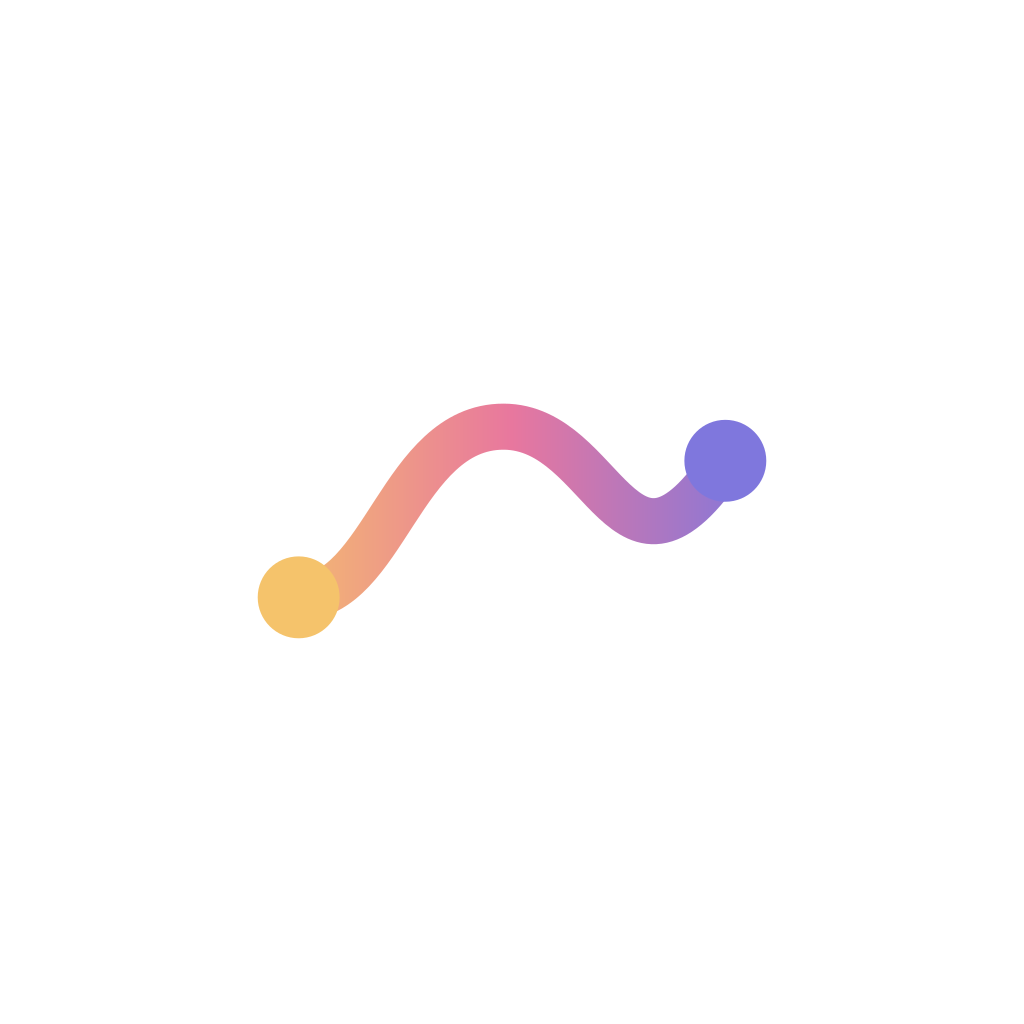
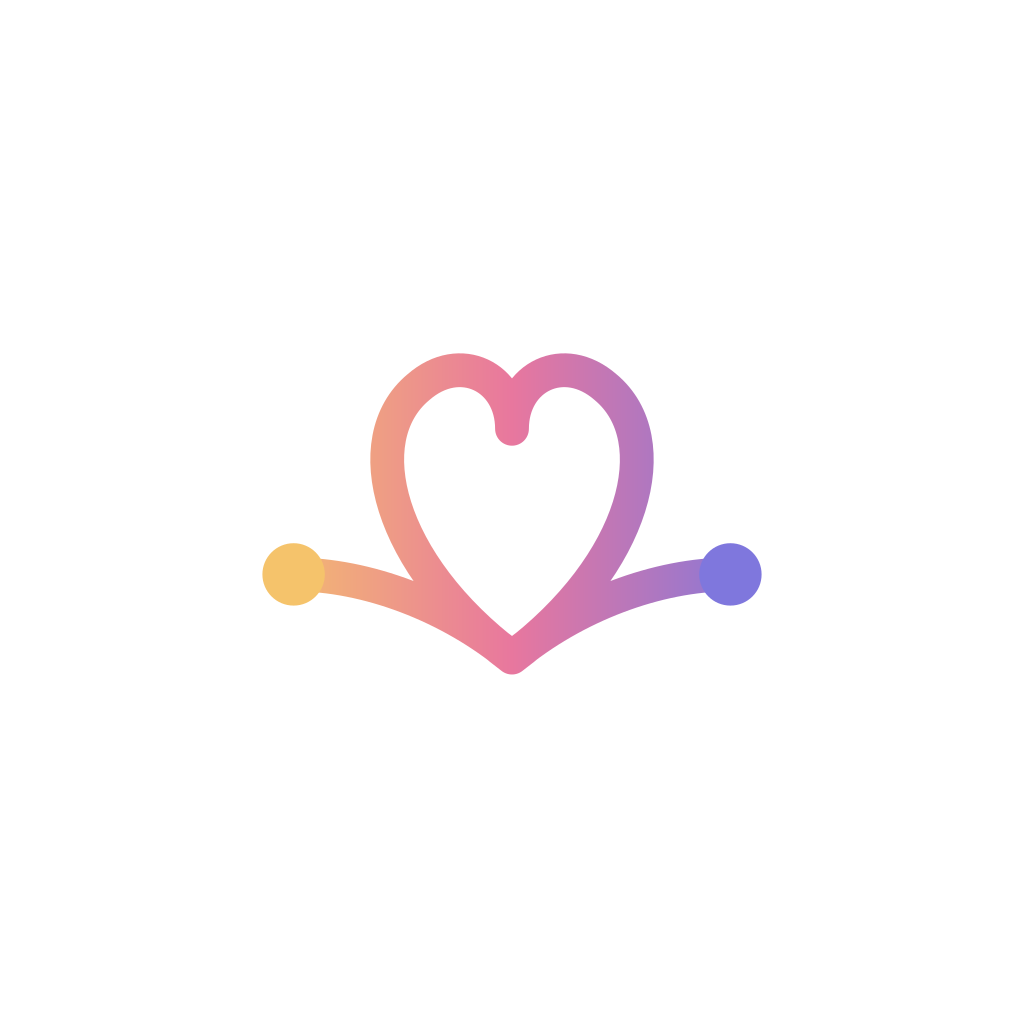
brand mark

Changed region(s): [[0.25, 0.3438, 0.75, 0.6562]]

diff --git a/components/BrandSplash.tsx b/components/BrandSplash.tsx
@@ -11,18 +11,23 @@ import {
   MARK_RATIO,
   MARK_START,
   MARK_STOPS,
+  MARK_STROKE_LENGTH,
   MARK_STROKE_WIDTH,
+  MARK_UNITS_WIDTH,
   MARK_VIEWBOX,
 } from '@/utils/brandMark';
 import { typography } from '@/utils/themeTokens';
 
 const AnimatedCircle = Animated.createAnimatedComponent(Circle);
+const AnimatedPath = Animated.createAnimatedComponent(Path);
 
 /** Must match app.json's splash imageWidth × 0.7 (the mark fills 70% of splash-icon.png). */
 const MARK_WIDTH = 180;
 const MARK_HEIGHT = MARK_WIDTH / MARK_RATIO;
 /** How far the mark glides up to make room for the wordmark. */
 const LIFT = 56;
+/** Length of the light that runs along the thread, in viewBox units. */
+const SPARK_LENGTH = 34;
 
 interface BrandSplashProps {
   /** Fires when the sequence ends, before the fade — the parent routes here. */
@@ -35,32 +40,52 @@ interface BrandSplashProps {
  * Warm Story 2.0 animated splash. The native splash (assets/splash-icon.png,
  * see app.json) already shows the full mark, centered, at exactly this size,
  * so the hand-off is seamless. From there:
- *   1. the gold dot pulses, then the purple one (beginning → recap),
- *   2. the mark glides up while the wordmark and tagline rise in under it,
- *   3. the overlay fades out.
+ *   1. the heart beats twice (lub-dub) while the gold dot pulses,
+ *   2. a soft light runs along the thread, from the gold dot through the
+ *      heart to the purple dot, which pulses as it arrives,
+ *   3. the mark glides up while the wordmark and tagline rise in under it,
+ *   4. the overlay fades out.
  * Theme-aware background; the mark's own gradient is brand identity and
- * stays fixed in both modes. About 1.9s end to end.
+ * stays fixed in both modes. About 2.3s end to end.
  */
 export function BrandSplash({ onReveal, onFinished }: BrandSplashProps) {
   const { tokens } = useTheme();
+  const beat = useRef(new Animated.Value(1)).current;
   const goldPulse = useRef(new Animated.Value(0)).current;
   const purplePulse = useRef(new Animated.Value(0)).current;
+  const spark = useRef(new Animated.Value(0)).current;
   const lift = useRef(new Animated.Value(0)).current;
   const wordmark = useRef(new Animated.Value(0)).current;
   const tagline = useRef(new Animated.Value(0)).current;
   const overlay = useRef(new Animated.Value(1)).current;
 
   useEffect(() => {
-    // SVG props (the dots' radius) can't run on the native driver.
+    // SVG props (dot radius, dash offset) can't run on the native driver.
     const pulse = (value: Animated.Value) =>
       Animated.sequence([
         Animated.timing(value, { toValue: 1, duration: 180, easing: Easing.out(Easing.quad), useNativeDriver: false }),
         Animated.spring(value, { toValue: 0, friction: 4, tension: 120, useNativeDriver: false }),
       ]);
 
+    const beatTo = (toValue: number, duration: number) =>
+      Animated.timing(beat, { toValue, duration, easing: Easing.inOut(Easing.quad), useNativeDriver: true });
+
+    const heartbeat = Animated.sequence([
+      beatTo(1.1, 130),
+      beatTo(1, 120),
+      beatTo(1.06, 110),
+      beatTo(1, 160),
+    ]);
+
     const sequence = Animated.sequence([
-      Animated.delay(150),
-      pulse(goldPulse),
+      Animated.delay(120),
+      Animated.parallel([heartbeat, pulse(goldPulse)]),
+      Animated.timing(spark, {
+        toValue: 1,
+        duration: 560,
+        easing: Easing.inOut(Easing.cubic),
+        useNativeDriver: false,
+      }),
       pulse(purplePulse),
       Animated.parallel([
         Animated.timing(lift, {
@@ -84,7 +109,7 @@ export function BrandSplash({ onReveal, onFinished }: BrandSplashProps) {
           useNativeDriver: true,
         }),
       ]),
-      Animated.delay(320),
+      Animated.delay(280),
     ]);
 
     sequence.start(({ finished }) => {
@@ -98,7 +123,7 @@ export function BrandSplash({ onReveal, onFinished }: BrandSplashProps) {
     });
 
     return () => sequence.stop();
-  }, [goldPulse, purplePulse, lift, wordmark, tagline, overlay, onReveal, onFinished]);
+  }, [beat, goldPulse, purplePulse, spark, lift, wordmark, tagline, overlay, onReveal, onFinished]);
 
   const rise = (value: Animated.Value) => ({
     opacity: value,
@@ -107,32 +132,58 @@ export function BrandSplash({ onReveal, onFinished }: BrandSplashProps) {
   const dotRadius = (value: Animated.Value) =>
     value.interpolate({ inputRange: [0, 1], outputRange: [MARK_DOT_RADIUS, MARK_DOT_RADIUS * 1.7] });
 
+  // One short dash with a gap longer than the whole path: offset +SPARK_LENGTH
+  // hides it before the start, -MARK_STROKE_LENGTH carries it past the end.
+  const sparkOffset = spark.interpolate({ inputRange: [0, 1], outputRange: [SPARK_LENGTH, -MARK_STROKE_LENGTH] });
+  const sparkOpacity = spark.interpolate({ inputRange: [0, 0.08, 0.9, 1], outputRange: [0, 0.75, 0.75, 0] });
+
   return (
     <Animated.View style={[styles.overlay, { opacity: overlay }]}>
       <LinearGradient colors={tokens.background} style={StyleSheet.absoluteFill} />
 
-      {/* The mark starts dead-center (matching the native splash), then glides up. */}
+      {/* The mark starts dead-center (matching the native splash), beats, then glides up. */}
       <Animated.View
         style={{ transform: [{ translateY: lift.interpolate({ inputRange: [0, 1], outputRange: [0, -LIFT] }) }] }}
       >
-        <Svg width={MARK_WIDTH} height={MARK_HEIGHT} viewBox={MARK_VIEWBOX} style={styles.mark}>
-          <Defs>
-            <SvgLinearGradient id="splashThread" x1="0" y1="0" x2="60" y2="0" gradientUnits="userSpaceOnUse">
-              {MARK_STOPS.map((stop) => (
-                <Stop key={stop.offset} offset={stop.offset} stopColor={stop.color} />
-              ))}
-            </SvgLinearGradient>
-          </Defs>
-          <Path
-            d={MARK_PATH}
-            stroke="url(#splashThread)"
-            strokeWidth={MARK_STROKE_WIDTH}
-            strokeLinecap="round"
-            fill="none"
-          />
-          <AnimatedCircle cx={MARK_START.x} cy={MARK_START.y} r={dotRadius(goldPulse)} fill={MARK_STOPS[0].color} />
-          <AnimatedCircle cx={MARK_END.x} cy={MARK_END.y} r={dotRadius(purplePulse)} fill={MARK_STOPS[2].color} />
-        </Svg>
+        <Animated.View style={{ transform: [{ scale: beat }] }}>
+          <Svg width={MARK_WIDTH} height={MARK_HEIGHT} viewBox={MARK_VIEWBOX} style={styles.mark}>
+            <Defs>
+              <SvgLinearGradient
+                id="splashThread"
+                x1="0"
+                y1="0"
+                x2={MARK_UNITS_WIDTH}
+                y2="0"
+                gradientUnits="userSpaceOnUse"
+              >
+                {MARK_STOPS.map((stop) => (
+                  <Stop key={stop.offset} offset={stop.offset} stopColor={stop.color} />
+                ))}
+              </SvgLinearGradient>
+            </Defs>
+            <Path
+              d={MARK_PATH}
+              stroke="url(#splashThread)"
+              strokeWidth={MARK_STROKE_WIDTH}
+              strokeLinecap="round"
+              strokeLinejoin="round"
+              fill="none"
+            />
+            <AnimatedPath
+              d={MARK_PATH}
+              stroke="#FFFFFF"
+              strokeOpacity={sparkOpacity}
+              strokeWidth={MARK_STROKE_WIDTH * 0.55}
+              strokeLinecap="round"
+              strokeLinejoin="round"
+              strokeDasharray={[SPARK_LENGTH, MARK_STROKE_LENGTH + SPARK_LENGTH]}
+              strokeDashoffset={sparkOffset}
+              fill="none"
+            />
+            <AnimatedCircle cx={MARK_START.x} cy={MARK_START.y} r={dotRadius(goldPulse)} fill={MARK_STOPS[0].color} />
+            <AnimatedCircle cx={MARK_END.x} cy={MARK_END.y} r={dotRadius(purplePulse)} fill={MARK_STOPS[2].color} />
+          </Svg>
+        </Animated.View>
       </Animated.View>
 
       <View style={styles.textBlock} pointerEvents="none">

diff --git a/utils/brandMark.ts b/utils/brandMark.ts
@@ -1,23 +1,26 @@
 import { brandGradient } from '@/utils/themeTokens';
 
 /**
- * Warm Story 2.0 brand mark: the "story thread", a wave from a gold dot
- * (the beginning) to a purple dot (the recap). Shared by BrandMark, the
- * animated BrandSplash and BrandFlourish; the app icon and splash PNGs in
- * assets/ are rendered from the same geometry.
+ * Warm Story 2.0 brand mark: the "story thread with a heart". A thread runs
+ * from a gold dot (the beginning), loops into a heart, and ends at a purple
+ * dot (the recap). Shared by BrandMark and the animated BrandSplash; the app
+ * icon and splash PNGs in assets/ are rendered from the same geometry.
  */
-export const MARK_PATH = 'M5 28C15 28 17 8 29 8S43 30 55 12';
-export const MARK_VIEWBOX = '0 0 60 36';
-export const MARK_RATIO = 60 / 36;
+export const MARK_PATH =
+  'M8 66C22 66 38 72 50 82C26 64 20 40 32 30C40 23 50 28 50 38C50 28 60 23 68 30C80 40 74 64 50 82C62 72 78 66 92 66';
+export const MARK_VIEWBOX = '0 20 100 68';
+export const MARK_RATIO = 100 / 68;
+/** Width of the mark's coordinate space, for userSpaceOnUse gradients. */
+export const MARK_UNITS_WIDTH = 100;
 
 /** Start (gold) and end (purple) dots, in viewBox units. */
-export const MARK_START = { x: 5, y: 28 } as const;
-export const MARK_END = { x: 55, y: 12 } as const;
-export const MARK_DOT_RADIUS = 3.6;
-export const MARK_STROKE_WIDTH = 4;
+export const MARK_START = { x: 8, y: 66 } as const;
+export const MARK_END = { x: 92, y: 66 } as const;
+export const MARK_DOT_RADIUS = 6;
+export const MARK_STROKE_WIDTH = 6.5;
 
-/** Slightly over the real curve length (~65.5), so the dash fully hides the stroke at rest. */
-export const MARK_STROKE_LENGTH = 68;
+/** Slightly over the real curve length (~267.2), so a dash can fully clear the stroke. */
+export const MARK_STROKE_LENGTH = 270;
 
 /** Horizontal gold → pink → purple, like the design's thread. */
 export const MARK_STOPS = [
@@ -25,3 +28,10 @@ export const MARK_STOPS = [
   { offset: '0.5', color: brandGradient[1] },
   { offset: '1', color: brandGradient[2] },
 ] as const;
+
+/**
+ * The original plain wave, kept only for BrandFlourish's decorative corner
+ * accent: a stretched heart doesn't read as a sliver, a wave does.
+ */
+export const FLOURISH_PATH = 'M5 28C15 28 17 8 29 8S43 30 55 12';
+export const FLOURISH_VIEWBOX = '0 0 60 36';

diff --git a/components/BrandFlourish.tsx b/components/BrandFlourish.tsx
@@ -2,7 +2,7 @@ import { useId } from 'react';
 import { type StyleProp, type ViewStyle } from 'react-native';
 import Svg, { Defs, LinearGradient, Path, Stop } from 'react-native-svg';
 
-import { MARK_PATH, MARK_STOPS, MARK_VIEWBOX } from '@/utils/brandMark';
+import { FLOURISH_PATH, FLOURISH_VIEWBOX, MARK_STOPS } from '@/utils/brandMark';
 
 interface BrandFlourishProps {
   width?: number;
@@ -12,9 +12,9 @@ interface BrandFlourishProps {
 }
 
 /**
- * The gold→pink→purple wavy line from the splash/logo, reused as a small
- * decorative corner accent — same MARK_PATH/MARK_STOPS as BrandMark and
- * BrandSplash so the three can never drift apart. Deliberately stretched to a
+ * The gold→pink→purple wavy line (the original thread, before the heart),
+ * reused as a small decorative corner accent. Shares MARK_STOPS with BrandMark
+ * and BrandSplash so the colors can never drift apart. Deliberately stretched to a
  * flatter, wider aspect than the logo's own (184×136) so it reads as a
  * sliver-like accent rather than a shrunk copy of the mark.
  */
@@ -22,7 +22,7 @@ export function BrandFlourish({ width = 60, height = 26, opacity = 0.55, style }
   const gradientId = `brandFlourish-${useId()}`;
 
   return (
-    <Svg width={width} height={height} viewBox={MARK_VIEWBOX} style={style} opacity={opacity}>
+    <Svg width={width} height={height} viewBox={FLOURISH_VIEWBOX} style={style} opacity={opacity}>
       <Defs>
         <LinearGradient id={gradientId} x1="0" y1="0" x2="1" y2="0">
           {MARK_STOPS.map((stop) => (
@@ -31,7 +31,7 @@ export function BrandFlourish({ width = 60, height = 26, opacity = 0.55, style }
         </LinearGradient>
       </Defs>
       <Path
-        d={MARK_PATH}
+        d={FLOURISH_PATH}
         stroke={`url(#${gradientId})`}
         strokeWidth={4}
         strokeLinecap="round"

diff --git a/components/BrandMark.tsx b/components/BrandMark.tsx
@@ -9,10 +9,11 @@ import {
   MARK_START,
   MARK_STOPS,
   MARK_STROKE_WIDTH,
+  MARK_UNITS_WIDTH,
   MARK_VIEWBOX,
 } from '@/utils/brandMark';
 
-/** The story-thread logo, drawn statically. The splash animates its own copy. */
+/** The story-thread heart logo, drawn statically. The splash animates its own copy. */
 export function BrandMark({ width = 52 }: { width?: number }) {
   // Unique per instance so multiple marks on one screen can't share a gradient id.
   const gradientId = `brandMark-${useId()}`;
@@ -20,7 +21,7 @@ export function BrandMark({ width = 52 }: { width?: number }) {
   return (
     <Svg width={width} height={width / MARK_RATIO} viewBox={MARK_VIEWBOX}>
       <Defs>
-        <LinearGradient id={gradientId} x1="0" y1="0" x2="60" y2="0" gradientUnits="userSpaceOnUse">
+        <LinearGradient id={gradientId} x1="0" y1="0" x2={MARK_UNITS_WIDTH} y2="0" gradientUnits="userSpaceOnUse">
           {MARK_STOPS.map((stop) => (
             <Stop key={stop.offset} offset={stop.offset} stopColor={stop.color} />
           ))}
@@ -31,6 +32,7 @@ export function BrandMark({ width = 52 }: { width?: number }) {
         stroke={`url(#${gradientId})`}
         strokeWidth={MARK_STROKE_WIDTH}
         strokeLinecap="round"
+        strokeLinejoin="round"
         fill="none"
       />
       <Circle cx={MARK_START.x} cy={MARK_START.y} r={MARK_DOT_RADIUS} fill={MARK_STOPS[0].color} />

diff --git a/CLAUDE.md b/CLAUDE.md
@@ -86,7 +86,11 @@
 >   `ScreenBackground`, `BrandHeader`. povestea-web: `components/ui/styles.ts` classes, `TabNav` (docked
 >   bar) and every `bg-accent text-white` / `text-accent` moved to accent-fill / accent-text.
 >   **Logo + splash (same day):** the brand mark is the design's "story thread"
->   (`utils/brandMark.ts`: `M5 28C15 28 17 8 29 8S43 30 55 12`, gold + purple end dots). All
+>   (`utils/brandMark.ts`, gold + purple end dots). **Updated 2026-10-07:** the mark is now the
+  "story thread with a heart" (thread from the gold dot loops into a heart, ends at the purple dot;
+  viewBox `0 20 100 68`); the old plain wave survives only as `FLOURISH_PATH` for `BrandFlourish`.
+  `BrandSplash` now: heart double-beat + gold pulse, a white light runs along the thread, purple
+  pulse, then lift + wordmark + fade (~2.3s). All
 >   `assets/` icons were Expo defaults; they're now rendered from that mark (plum `#1E1A30` icon
 >   background, adaptive fg inside the safe zone, white monochrome). The native splash shows the
 >   mark at `imageWidth: 257` (= 180px mark), and `BrandSplash` starts from that exact frame: dots
